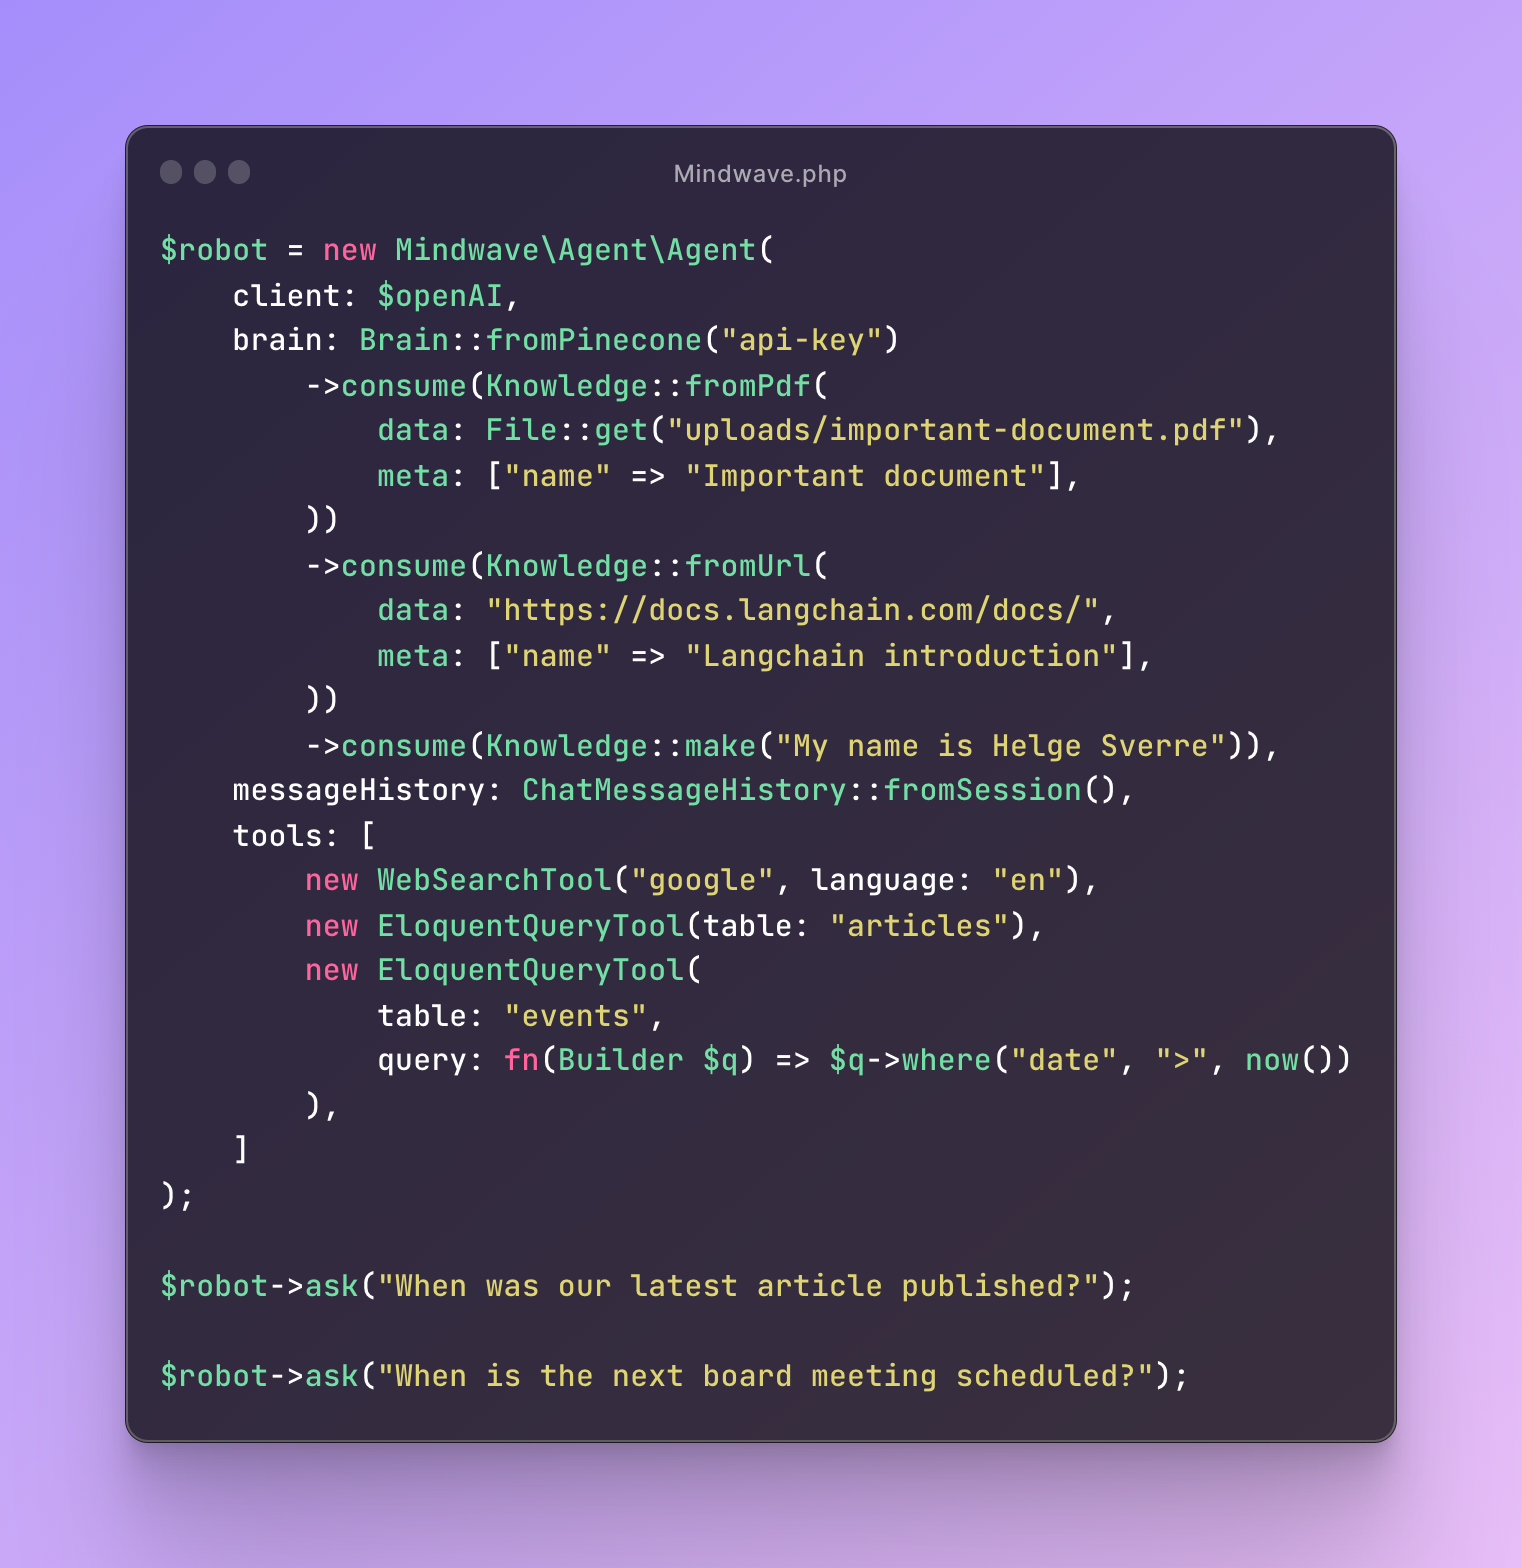
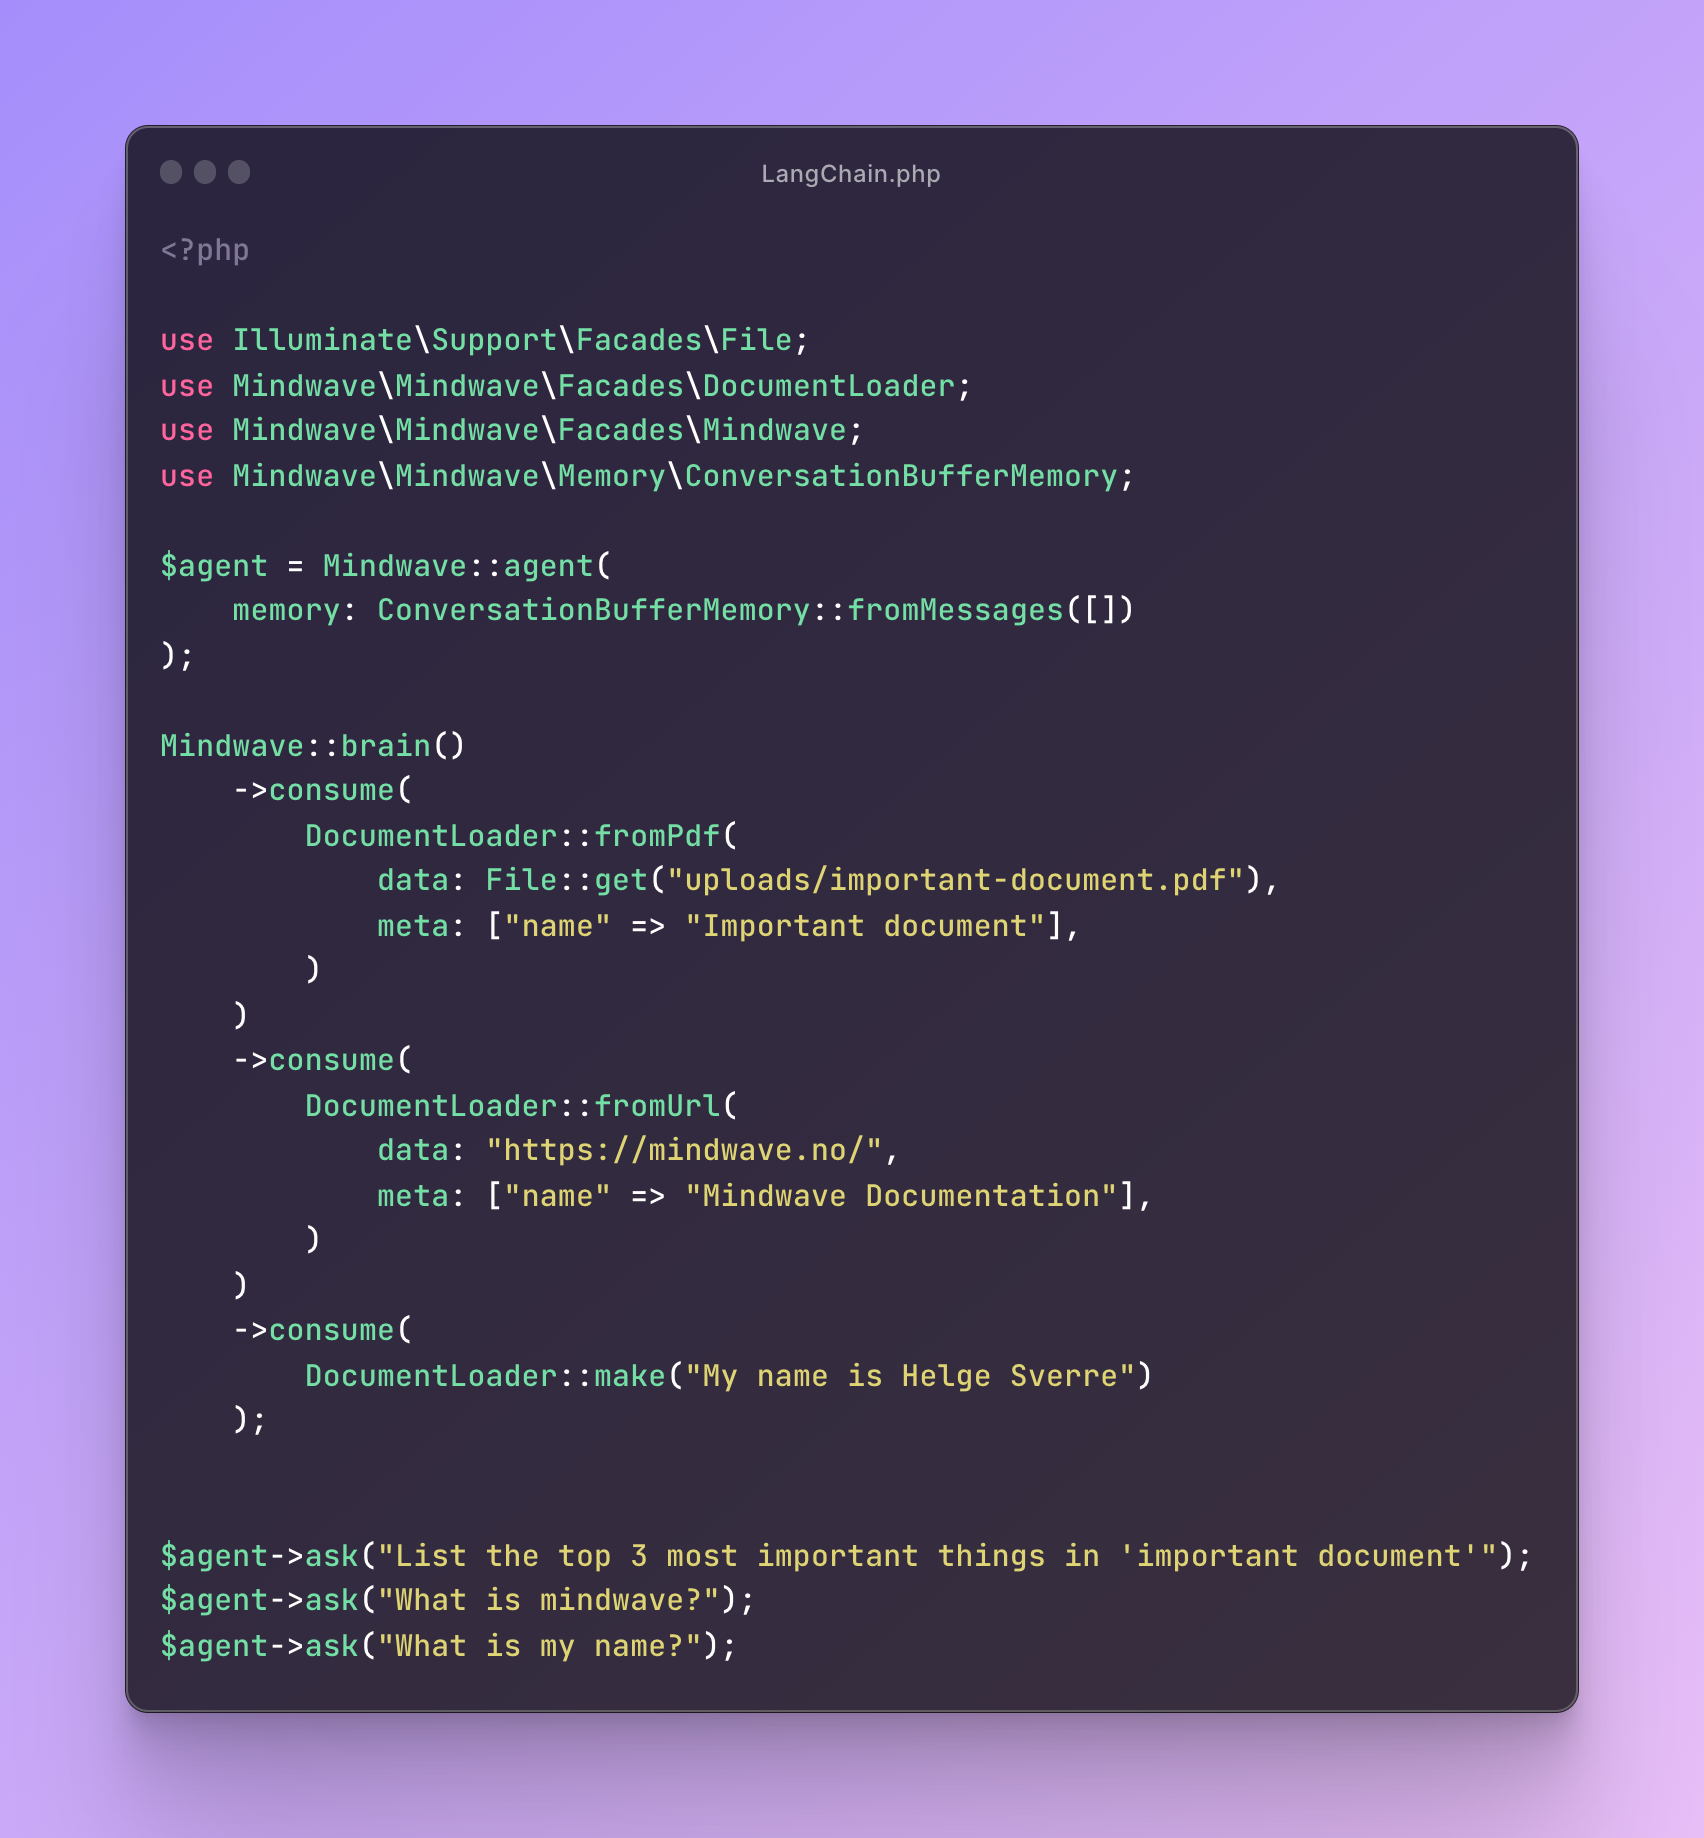
fix example

diff --git a/readme.md b/readme.md
@@ -12,44 +12,40 @@ capabilities and your own custom "tools" to create intelligent software applicat
 
 ![Code Example](/art/code.png)
 
-```php
-$mindwave = new Mindwave\Mindwave();
-// TODO: Implement example
-```
 
 ```php
-// TODO: Remove this old example code, its for "API" reference
 <?php
 
-$client = OpenAI::client(config('mindwave.openai.api_key'));
+use Illuminate\Support\Facades\File;
+use Mindwave\Mindwave\Facades\DocumentLoader;
+use Mindwave\Mindwave\Facades\Mindwave;
+use Mindwave\Mindwave\Memory\ConversationBufferMemory;
 
-
-$robot = Mindwave\Mindwave::agent()->make(
-    client: $openAI,
-    brain: Brain::fromPinecone("api-key")
-        ->consume(Knowledge::fromPdf(
-            data: File::get("uploads/important-document.pdf"),
-            meta: ["name" => "Important document"],
-        ))
-        ->consume(Knowledge::fromUrl(
-            data: "https://docs.langchain.com/docs/",
-            meta: ["name" => "Langchain introduction"],
-        ))
-        ->consume(Knowledge::make("My name is Helge Sverre")),
-    messageHistory: ChatMessageHistory::fromSession(),
-    tools: [
-        new WebSearchTool("google", language: "en"),
-        new EloquentQueryTool(table: "articles"),
-        new EloquentQueryTool(
-            table: "events",
-            query: fn(Builder $q) => $q->where("date", ">", now())
-        ),
-    ]
+$agent = Mindwave::agent(
+    memory: ConversationBufferMemory::fromMessages([])
 );
 
-$robot->ask("When was our latest article published?");
+Mindwave::brain()
+    ->consume(
+        DocumentLoader::fromPdf(
+            data: File::get("uploads/important-document.pdf"),
+            meta: ["name" => "Important document"],
+        )
+    )
+    ->consume(
+        DocumentLoader::fromUrl(
+            data: "https://mindwave.no/",
+            meta: ["name" => "Mindwave Documentation"],
+        )
+    )
+    ->consume(
+        DocumentLoader::make("My name is Helge Sverre")
+    );
 
-$robot->ask("When is the next board meeting scheduled?");
+
+$agent->ask("List the top 3 most important things in 'important document'");
+$agent->ask("What is mindwave?");
+$agent->ask("What is my name?");
 ```
 
 ## Use Cases
